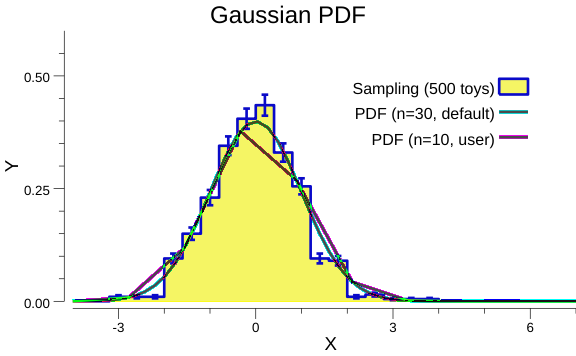
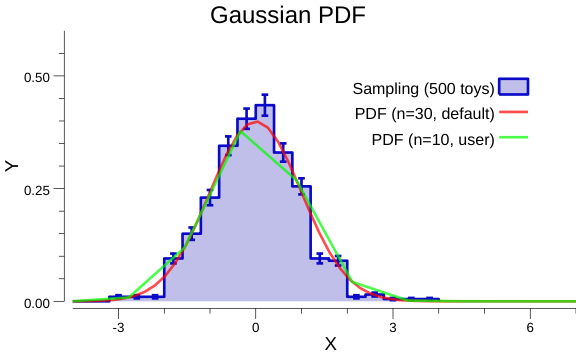
Update color.RGBA to color.NRGBA for good transparency for png

diff --git a/plotting/main.go b/plotting/main.go
@@ -83,22 +83,22 @@ func plotHplot_1D(){
 	// Create a histogram of our values drawn from the standard normal.
 	h := hplot.NewH1D(hist, hplot.WithYErrBars(true))
 	h.Infos.Style = hplot.HInfoNone
-	h.LineStyle.Color = color.RGBA{R: 10, G: 10, B: 200, A: 255}
+	h.LineStyle.Color = color.NRGBA{R: 10, G: 10, B: 200, A: 255}
 	h.LineStyle.Width = 2
-	h.FillColor = color.RGBA{R: 90, G: 90, B: 200, A: 100}
-	h.YErrs.LineStyle.Color = color.RGBA{R: 10, G: 10, B: 200, A: 255}
+	h.FillColor = color.NRGBA{R: 90, G: 90, B: 200, A: 100}
+	h.YErrs.LineStyle.Color = color.NRGBA{R: 10, G: 10, B: 200, A: 255}
 	h.YErrs.LineStyle.Width = 2
 	p.Add(h)
 	
 	// Add the normal distribution function with hplot.NewFunction 
 	norm1 := hplot.NewFunction(dist.Prob)
-	norm1.Color = color.RGBA{R: 255, A: 180}
+	norm1.Color = color.NRGBA{R: 255, A: 180}
 	norm1.Width = vg.Points(2)
 	p.Add(norm1)
 
 	// Add the normal distribution function with Function structure directly
 	norm2 := &hplot.Function{F:dist.Prob, Samples: 10}
-	norm2.Color = color.RGBA{G: 250, A: 180}
+	norm2.Color = color.NRGBA{G: 250, A: 180}
 	norm2.Width = vg.Points(2)
 	p.Add(norm2)
 	
@@ -122,7 +122,7 @@ func plotHplot_1D(){
 		log.Fatalf("error saving plot: %v\n", err)
 	}
 
-	// Save the plot to a PNG doesnt work (resolution, transparency)
+	// Save the plot to a PNG (resolution doesnt work resolution - most likely not used properly)
 	c := vgimg.NewWith(
 		vgimg.UseWH(10*vg.Centimeter, 12*vg.Centimeter),
 		vgimg.UseDPI(200),
